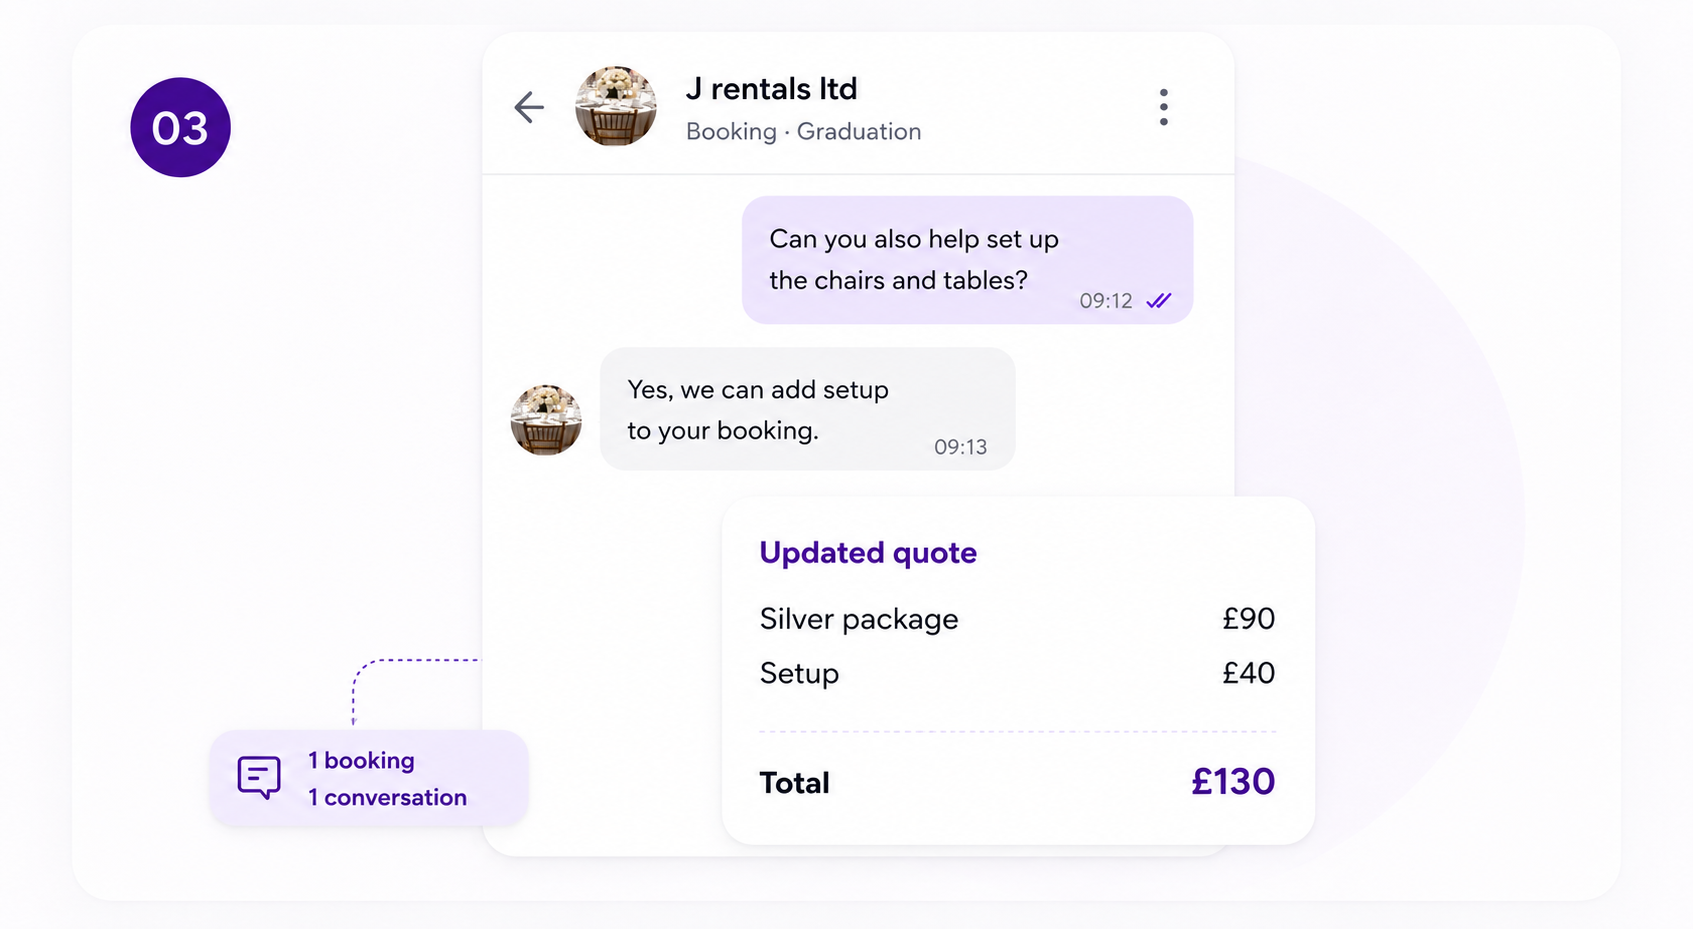
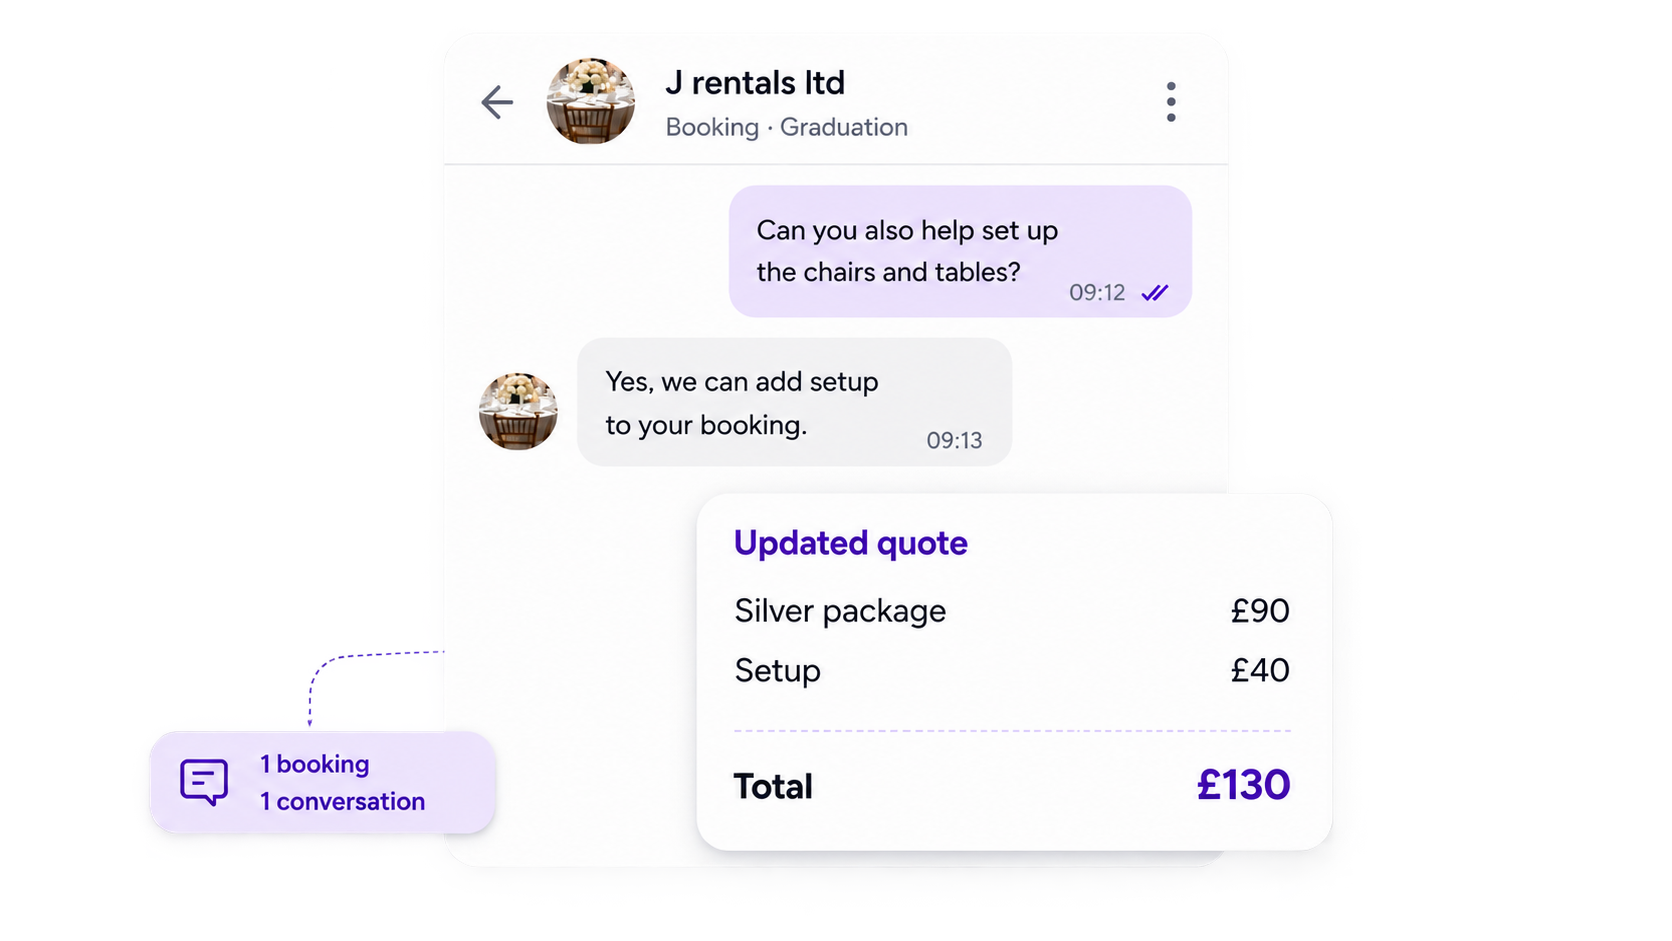
Polish booking journey screenshots on mobile and desktop.
Fix desktop scroll-sync, add primary-soft image frames, larger per-step mobile scales, and updated landing screenshot assets.

diff --git a/frontend/features/landing/useLandingScrollSpy.ts b/frontend/features/landing/useLandingScrollSpy.ts
@@ -8,6 +8,8 @@ import {
   type RefObject,
 } from "react";
 
+const DESKTOP_MEDIA_QUERY = "(min-width: 1024px)";
+
 type StepSlot = {
   mobile: HTMLElement | null;
   desktop: HTMLElement | null;
@@ -15,7 +17,7 @@ type StepSlot = {
 
 /**
  * Tracks which scroll panel is most visible in the viewport.
- * Supports separate mobile carousel cards and desktop copy columns.
+ * Mobile uses the horizontal carousel root; desktop uses the copy column only.
  */
 export function useLandingScrollSpy(
   stepCount: number,
@@ -47,7 +49,7 @@ export function useLandingScrollSpy(
     if (stepCount <= 0) return;
 
     const ratios = new Array<number>(stepCount).fill(0);
-    const carousel = carouselRef.current;
+    const observers: IntersectionObserver[] = [];
 
     const pickActive = () => {
       let bestIndex = 0;
@@ -64,56 +66,79 @@ export function useLandingScrollSpy(
       }
     };
 
-    const observers: IntersectionObserver[] = [];
+    const disconnectObservers = () => {
+      for (const observer of observers) observer.disconnect();
+      observers.length = 0;
+      ratios.fill(0);
+    };
 
-    for (let index = 0; index < stepCount; index += 1) {
-      const slot = stepSlots.current[index];
-      if (!slot) continue;
+    const connectObservers = () => {
+      disconnectObservers();
 
-      if (slot.mobile && carousel) {
-        const observer = new IntersectionObserver(
-          (entries) => {
-            for (const entry of entries) {
-              if (entry.target === slot.mobile) {
-                ratios[index] = entry.intersectionRatio;
+      const isDesktop = window.matchMedia(DESKTOP_MEDIA_QUERY).matches;
+      const carousel = carouselRef.current;
+
+      for (let index = 0; index < stepCount; index += 1) {
+        const slot = stepSlots.current[index];
+        if (!slot) continue;
+
+        if (!isDesktop && slot.mobile && carousel) {
+          const mobileEl = slot.mobile;
+          const observer = new IntersectionObserver(
+            (entries) => {
+              for (const entry of entries) {
+                if (entry.target === mobileEl) {
+                  ratios[index] = entry.intersectionRatio;
+                }
               }
-            }
-            pickActive();
-          },
-          {
-            root: carousel,
-            threshold: [0, 0.35, 0.55, 0.75, 1],
-          },
-        );
-        observer.observe(slot.mobile);
-        observers.push(observer);
+              pickActive();
+            },
+            {
+              root: carousel,
+              threshold: [0, 0.35, 0.55, 0.75, 1],
+            },
+          );
+          observer.observe(mobileEl);
+          observers.push(observer);
+          continue;
+        }
+
+        if (isDesktop && slot.desktop) {
+          const desktopEl = slot.desktop;
+          const observer = new IntersectionObserver(
+            (entries) => {
+              for (const entry of entries) {
+                if (entry.target === desktopEl) {
+                  ratios[index] = entry.intersectionRatio;
+                }
+              }
+              pickActive();
+            },
+            {
+              root: null,
+              threshold: [0, 0.15, 0.35, 0.55, 0.75, 1],
+              rootMargin: "-18% 0px -32% 0px",
+            },
+          );
+          observer.observe(desktopEl);
+          observers.push(observer);
+        }
       }
 
-      if (slot.desktop) {
-        const observer = new IntersectionObserver(
-          (entries) => {
-            for (const entry of entries) {
-              if (entry.target === slot.desktop) {
-                ratios[index] = Math.max(ratios[index] ?? 0, entry.intersectionRatio);
-              }
-            }
-            pickActive();
-          },
-          {
-            root: null,
-            threshold: [0, 0.15, 0.35, 0.55, 0.75, 1],
-            rootMargin: "-18% 0px -32% 0px",
-          },
-        );
-        observer.observe(slot.desktop);
-        observers.push(observer);
-      }
-    }
+      pickActive();
+    };
 
-    pickActive();
+    connectObservers();
+
+    const mediaQuery = window.matchMedia(DESKTOP_MEDIA_QUERY);
+    const onBreakpointChange = () => {
+      connectObservers();
+    };
+    mediaQuery.addEventListener("change", onBreakpointChange);
 
     return () => {
-      for (const observer of observers) observer.disconnect();
+      mediaQuery.removeEventListener("change", onBreakpointChange);
+      disconnectObservers();
     };
   }, [stepCount, carouselRef]);
 

diff --git a/frontend/features/landing/LandingScrollFeatureShowcase.tsx b/frontend/features/landing/LandingScrollFeatureShowcase.tsx
@@ -62,7 +62,7 @@ function StepScreenshot({
   const imageClassName =
     layout === "inline"
       ? LANDING_SCREENSHOT_NATURAL_CLASS
-      : "h-full w-full object-contain object-top";
+      : "h-full w-full object-contain object-center";
 
   const frame = (
     <div
@@ -107,6 +107,13 @@ function StepScreenshot({
   );
 }
 
+const MOBILE_STEP_IMAGE_SCALE_CLASS = [
+  "scale-[1.22]",
+  "scale-[1.15]",
+  "scale-[1.2]",
+  "scale-[1.22]",
+] as const;
+
 function MobileJourneyStepCard({
   step,
   index,
@@ -124,26 +131,29 @@ function MobileJourneyStepCard({
     <article
       id={step.id}
       ref={stepRef}
-      className="flex w-[min(92vw,28rem)] shrink-0 snap-start flex-col rounded-2xl border border-primary-border/50 bg-white p-5 sm:w-[min(90vw,30rem)] sm:p-6"
+      className="flex w-[calc(100vw-0.75rem)] max-w-none shrink-0 snap-center flex-col overflow-hidden rounded-2xl border border-primary-border/50 bg-primary-soft/30 sm:w-[calc(100vw-1.5rem)]"
     >
-      <span
-        className={`inline-flex h-9 w-9 items-center justify-center rounded-lg text-base font-bold tabular-nums ${badgeClass}`}
-      >
-        {index + 1}
-      </span>
-      <h3 className="mt-4 text-xl font-bold leading-snug text-neutral-900">{step.title}</h3>
-      <p className="mt-3 flex-1 text-sm leading-relaxed text-neutral-700 sm:text-[15px] sm:leading-7">
-        {step.description}
-      </p>
-      <div className="mt-5 overflow-hidden rounded-xl border border-primary-border/40 bg-white">
+      <div className="bg-white p-3 sm:p-4">
+        <span
+          className={`inline-flex h-8 w-8 items-center justify-center rounded-lg text-sm font-bold tabular-nums ${badgeClass}`}
+        >
+          {index + 1}
+        </span>
+        <h3 className="mt-2.5 text-base font-bold leading-snug text-neutral-900 sm:mt-3 sm:text-lg">
+          {step.title}
+        </h3>
+        <p className="mt-1.5 text-sm leading-relaxed text-neutral-700 sm:mt-2">
+          {step.description}
+        </p>
+      </div>
+      <div className="relative aspect-[4/3] w-full overflow-hidden border-t border-primary-border/30 bg-primary-soft/30">
         {step.imageSrc ? (
           <Image
             src={step.imageSrc}
             alt={step.imageAlt}
-            width={LANDING_SCREENSHOT_DEFAULT_WIDTH}
-            height={LANDING_SCREENSHOT_DEFAULT_HEIGHT}
-            className="h-auto w-full"
-            sizes="(max-width: 640px) 92vw, 30rem"
+            fill
+            className={`object-contain object-center ${MOBILE_STEP_IMAGE_SCALE_CLASS[index] ?? "scale-[1.22]"}`}
+            sizes="100vw"
             priority={index === 0}
             unoptimized
           />
@@ -232,7 +242,7 @@ export function LandingScrollFeatureShowcase({
       <div className="mt-8 lg:hidden">
         <div
           ref={carouselRef}
-          className={`-mx-4 px-4 sm:-mx-6 sm:px-6 ${MOBILE_CAROUSEL_SCROLL_CLASS}`}
+          className={`-mx-4 px-1 sm:-mx-6 sm:px-2 ${MOBILE_CAROUSEL_SCROLL_CLASS}`}
           aria-label="Booking steps"
         >
           {steps.map((step, index) => (
@@ -250,7 +260,7 @@ export function LandingScrollFeatureShowcase({
       <div className="mt-4 hidden lg:mt-5 lg:grid lg:grid-cols-[minmax(0,1.55fr)_minmax(0,0.45fr)] lg:gap-6 xl:gap-8">
         <div className="relative hidden lg:block">
           <div className="sticky top-[7.5rem] flex min-h-[calc(100dvh-7.5rem)] w-full items-center">
-            <div className="relative aspect-[4/3] w-full">
+            <div className="relative aspect-[4/3] w-full overflow-hidden rounded-xl border border-primary-border/40 bg-primary-soft/30">
               {steps.map((step, index) => (
                 <StepScreenshot
                   key={step.id}
